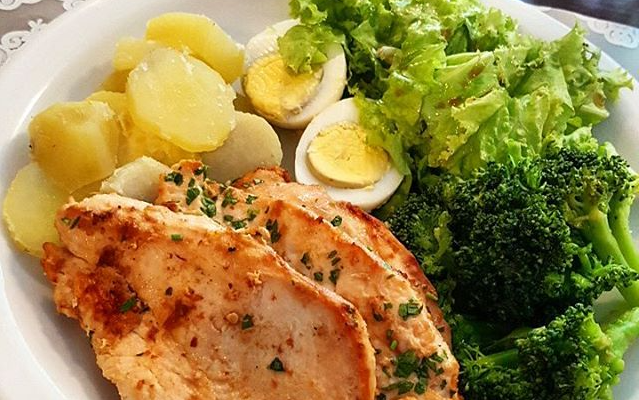
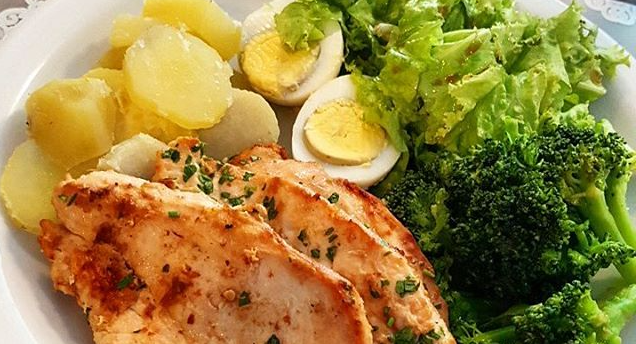
Ajuste no tamanho das imagens

diff --git a/src/views/view-refeicao.html b/src/views/view-refeicao.html
@@ -2,8 +2,8 @@
 <img src="images/desjejum.png" class="img-fluid img-refeicao" ng-if="refeicao.dsRefeicao == 'Desjejum'">
 <img src="images/colacao.png" class="img-fluid img-refeicao" ng-if="refeicao.dsRefeicao == 'Colação'">
 <img src="images/almoco.png" class="img-fluid img-refeicao" ng-if="refeicao.dsRefeicao == 'Almoço'">
-<img src="images/lanche.jpg" class="img-fluid img-refeicao" ng-if="refeicao.dsRefeicao == 'Lanche'">
-<img src="images/jantar.jpg" class="img-fluid img-refeicao" ng-if="refeicao.dsRefeicao == 'Jantar'">
+<img src="images/lanche.png" class="img-fluid img-refeicao" ng-if="refeicao.dsRefeicao == 'Lanche'">
+<img src="images/jantar.png" class="img-fluid img-refeicao" ng-if="refeicao.dsRefeicao == 'Jantar'">
 
 
 <div class="list-group">
